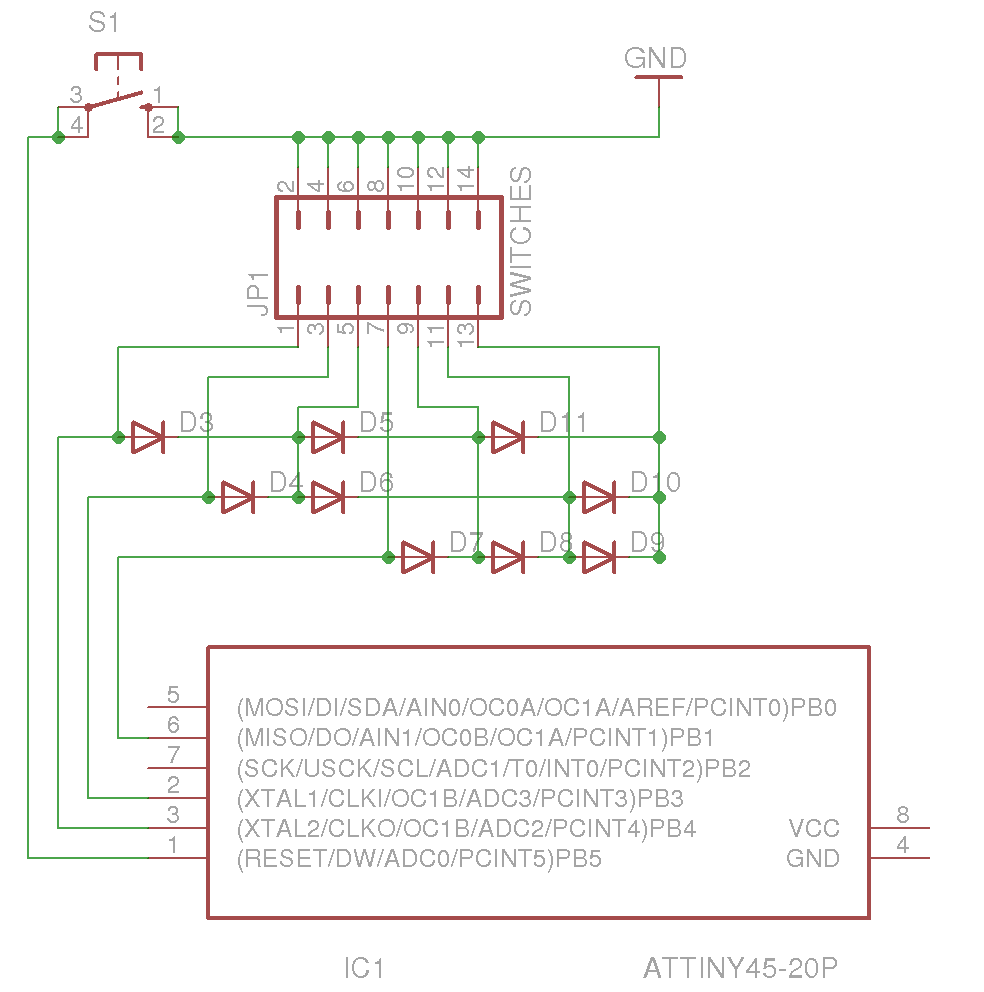
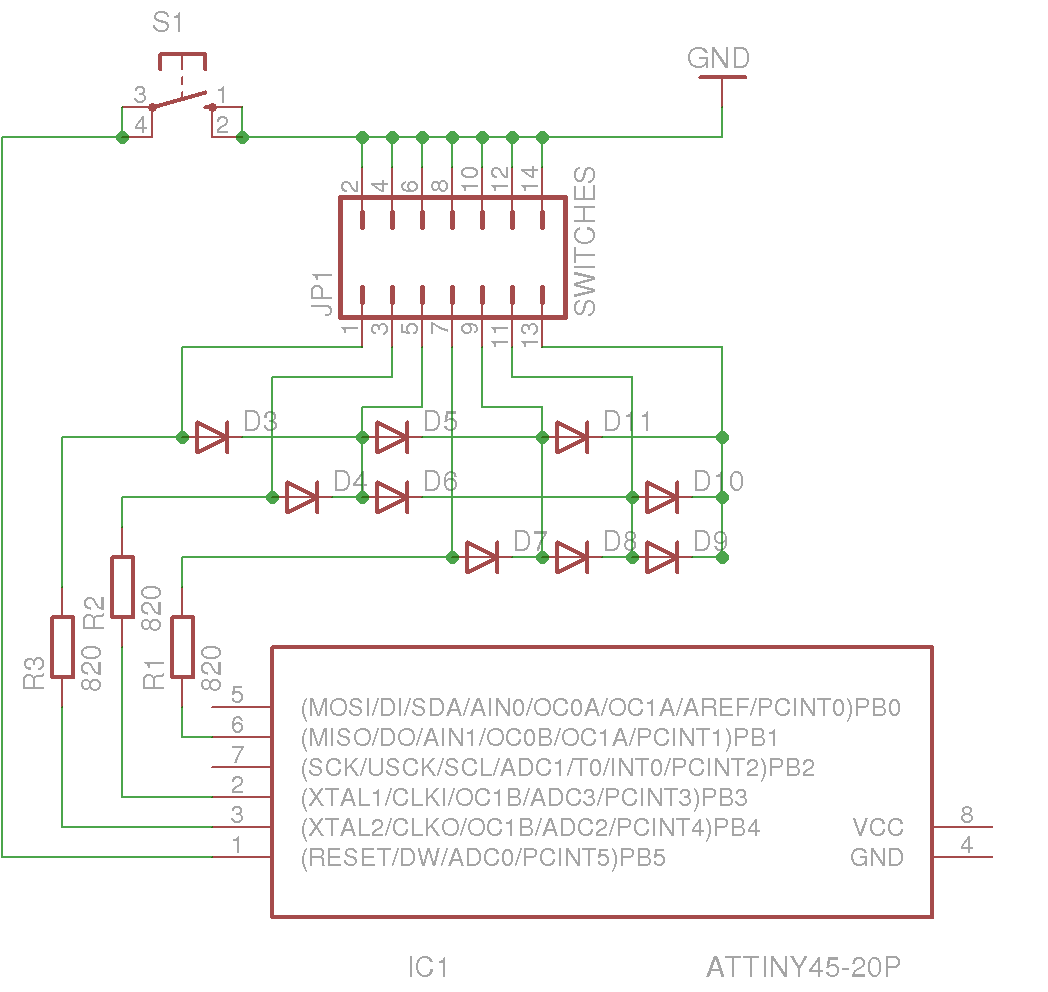
Toevoegen relaas schakelaars.

diff --git a/verslag/5_interface.tex b/verslag/5_interface.tex
@@ -80,6 +80,35 @@ TODO: programmeren als systeem actief is?
 
 \section{Schakelaars}
 
+De schakelaars bevinden zich fysiek niet op de interface module, maar zijn reeds ingebouwd in de bestaande kasten. Daarom zullen we een systeem moeten bedenken om de bestaande schakelaars op een handige manier op de module aan te sluiten. Tevens moeten we de knoppen zodanig verbinden dat er uitbreidingsmogelijkheden zijn.
+
+Om de bestaande schakelaars op een eenvoudige manier aan te sluiten, zullen we de interface module voorzien van een connector waarop we eenvoudig knoppen kunnen op aansluiten. De meest robuuste oplossing hierbij is een connector die vastklikt op de module, waardoor die niet per toeval kan loskomen. Dergelijke connectors zijn echter vrij specifiek, en vereisen per aan te sluiten schakelaar een element op de printplaat. Een alternatief, dat als voordeel heeft dat het geen speciale connector aan de kant van de knoppen vereist, zijn vijs-connectors. Hierbij worden de losse draden van de knoppen via een vijsaansluiting op de printplaat bevestigd. Hoewel dit al een betere oplossing is, vereist het nog altijd een connector op de printplaat voor elke knop, en neemt het vast- en losvijzen van de kabels ook meer tijd in beslag dan het aansluiten van een eenvoudige connector. Daarom hebben we gekozen voor de alombekende \emph{jumpers}. Deze makkelijk te vinden connectors kunnen eenvoudig aan het kabelpaar van de knoppen bevestigd worden door middel van een krimptang. Aan de kant van de printplaat is het ook een eenvoudigere oplossing, daar het mogelijk is de aansluitingen voor alle schakelaars door middel van een enkel blok jumpers te realiseren. Het enige nadeel is dat een aangesloten connectors niet zo vast zitten: bij gebrek aan weerhaak of ander systeem kan de kabel relatief gemakkelijk loskomen.
+
+Om de aansluitingen op de printplaat eenvoudig te houden, zullen we werken met een \emph{active-low} mechanisme: een knop zal wanneer ingedrukt bepaalde signaallijnen doorverbinden met de elektrische grond. Er is echter een bijkomend probleem: we hebben maar 3 poortpinnen tot onze beschikking, waardoor het niet mogelijk is elke knop door te verbinden met een eigen poortpin. De eenvoudige oplossing hierbij is het gebruik van een multiplexer: 2 select-lijnen en 1 datalijn maakt het mogelijk om 4 schakelaars uit te lezen. We willen echter meer knoppen kunnen aansluiten, zonder daarbij extra poortpinnen nodig te hebben. Daarom zullen we zelf het signaal multiplexen, waarbij we meer schakelaars kunnen toelaten door geen gebruik te maken van een selectiemechanisme, maar de signalen direct door te linken naar de poortpinnen. Het nadeel aan deze opzet is dat de signalen kunnen overlappen, zo zullen we bij het indrukken van meerdere knoppen tegelijkertijd niet kunnen uitmaken welke knoppen juist ingedrukt zijn.
+
+De realisatie van een dergelijke multiplexer lijkt eenvoudig, maar er is een belangrijk detail dat we moeten opmerken. Aangezien de verschillende poortpinnen verbonden zijn met verschillende knoppen, kan er bij het indrukken van een enkele schakelaar stroom terugvloeien via de contactpunten van diens signaallijnen met andere knoppen van een totaal ongerelateerde poortpin, zoals te zien is op figuur \ref{fig:circuit_schakelaars_foutief}. Om dit te vermijden moeten we overal waar er twee signaallijnen met elkaar verbonden zijn, een diode plaatsen zodat er geen stroom kan terugvloeien naar een vorig verbindingspunt. Hiervoor hebben we een reguliere diode nodig, waarbij geen speciale eisen gesteld worden. Daarom kiezen we voor de 1N4148, een populaire diode die vaak gebruikt wordt voor het schakelen van digitale signalen.
+
+TODO: referentie verkeerd?
+
+\begin{figure}
+	\label{fig:circuit_schakelaars_foutief}
+	\includegraphics[width=\textwidth]{afbeeldingen/circuit_schakelaars_foutief}
+	\caption{Circuit en connector voor schakelaars zonder dioden, en aanduiding van voorbeeldstromen daarbij}
+\end{figure}
+
+We kunnen echter niet zomaar dioden op de signaallijnen plaatsen: de maximale spanningsval die over een diode mag staan, is beperkt (bij een reguliere diode is dit 2 volt). De poortpinnen bevinden zich dankzij de interne pull-up op 5 volt, en worden via een schakelaar met de elektrische grond verbonden. Indien we tussen de poortpinnen en de schakelaar nu dioden plaatsen, is het mogelijk dat over een enkele diode meer dan 2 volt komt te staan. Dat gebeurt echter niet altijd: bij sommige schakelaars staan er geen diodes tussen de poortpin en de grond, en soms zijn het er meer dan 2 waardoor de voorwaartse spanningsval minder dan 2 volt bedraagt.
+
+Om de diodes te beschermen tegen deze schadelijke voorwaartse spanningsval, zullen we bij elk van de drie poortpinnen een extra weerstand plaatsen. Hierdoor zal de overmatige spanning over deze weerstand komen te staan, waardoor de diodes niet beschadigd worden. De keuze van deze weerstand is echter niet zo eenvoudig als het op het eerste zicht zou lijken: we moeten immers zowel rekening houden met de eigenschappen van de microcontroller, als het gedrag van de diode. De microcontroller stelt dat elke digitale pin maximaal 40 mA kan verwerken, we zullen de weerstand dusdanig moeten kiezen dat ook in het slechtste geval (waarbij de weerstand het enige element tussen de poortpin en de elektrische grond is, en die dus de volledige spanningsval van 5 volt over zich krijgt) niet meer dan 40 milliampères doorlaat. De keuze van de weerstand en de stroom die daar mee gemoeid is, heeft echter ook zijn weerga op hoe de diode zich gedraagt: de spanningsval die een diode veroorzaakt is immers gerelateerd met hoeveel stroom er door vloeit. Deze informatie kunnen we halen uit het $V / I$ diagram van de diode in kwestie. In geval van de 1N4148 willen we er specifiek voor zorgen dat de stroom door de dioden ligt tussen de 2 en 20 milliampères. Hierdoor zal de spanningsval zich bevinden tussen minimaal 0,4 en 0,6 volt (voor de eenvoud zullen we bij verdere bewerkingen 0,5 volt als spanningsval gebruiken).
+
+Na al deze parameters zorgvuldig in rekening gebracht te hebben, lijkt een weerstand van 820 ohm ideaal:
+\begin{itemize}
+\item In geval van een directe verbinding tussen de poortpin en de elektrische grond, zorgt de spanningsval van 5 volt over deze weerstand voor een stroom van 6 milliampères.
+\item Wanneer er zich 1 diode achter de weerstand bevindt (en we zoals hiervoor beschreven 0,5 volt hanteren als referentie-spanningsval), zorgt de spanningsval van 4,5 volt over de weerstand voor een stroom van ongeveer 5,5 milliampères.
+\item Analoog in het geval van 2 dioden, waarbij er ongeveer 5 milliampères zullen stromen.
+\item Analoog in het geval van 3 dioden, waarbij er ongeveer 4.2 milliampères zullen stromen.
+\end{itemize}
+In elk van de vier gevallen overstijgt de stroom de grens van 40 milliampères niet, wat de limiet was voor de microcontroller. Ook valt de stroom mooi binnen de vooropgestelde grenzen van 2 en 20 milliampères, waardoor de veronderstelling omtrent de spanningsval over de diode blijft gelden. De gekozen weerstandswaarde voldoet dus aan alle gestelde vereisten.
+
 \begin{figure}
 	\includegraphics[width=\textwidth]{afbeeldingen/circuit_schakelaars}
 	\caption{Circuit en connector voor schakelaars}
